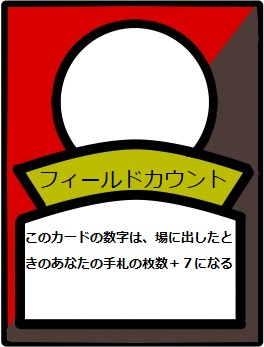
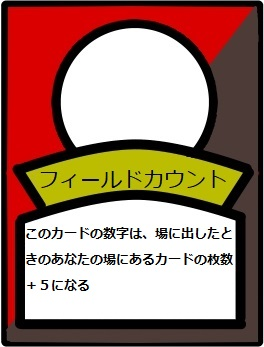
バグ修正

Changed region(s): [[0.0909, 0.634, 0.8788, 0.7781], [0.0909, 0.8069, 0.3333, 0.8357]]

diff --git a/Assets/Scripts/GameMain/GameManager.cs b/Assets/Scripts/GameMain/GameManager.cs
@@ -230,6 +230,7 @@ public class GameManager : MonoBehaviour {
             buff.text = "±" + Players[turnPlayer].SpecialPoint;
         }
         playerInfo.transform.Find("Point").GetComponent<Text>().text = Players[turnPlayer].NormalPoint + "";
+        playerInfo.transform.Find("Field").GetComponent<Text>().text = "場 "+Players[turnPlayer].FieldList.Count + "枚";
         GameObject gameInfo = GameObject.Find("GameInfo");
         Text gametext = gameInfo.transform.Find("Text").GetComponent<Text>();
         gametext.text = (turn + 1) + "ターン目 " + (turnPlayer+1) + "Pの番";
@@ -337,8 +338,10 @@ public class GameManager : MonoBehaviour {
                 Players[turnPlayer].FieldList[Players[turnPlayer].FieldList.Count - 1].GetComponent<Card>().Num += Players[turnPlayer].DeckList.Count; break;
             case 7:
                 Players[turnPlayer].FieldList[Players[turnPlayer].FieldList.Count - 1].GetComponent<Card>().Num += Players[turnPlayer].TrashList.Count; break;
-            case 8: Players[turnPlayer].FieldList[Players[turnPlayer].FieldList.Count - 1].GetComponent<Card>().Num += Players[turnPlayer].HandsList.Count; break;
-            case 9: Players[turnPlayer].FieldList[Players[turnPlayer].FieldList.Count - 1].GetComponent<Card>().Num += Players[turnPlayer].FieldList.Count; break;
+            case 9:
+                Players[turnPlayer].FieldList[Players[turnPlayer].FieldList.Count - 1].GetComponent<Card>().Num += Players[turnPlayer].HandsList.Count; break;
+            case 10:
+                Players[turnPlayer].FieldList[Players[turnPlayer].FieldList.Count - 1].GetComponent<Card>().Num += Players[turnPlayer].FieldList.Count; break;
         }
         Players[turnPlayer].NormalPoint += Players[turnPlayer].FieldList[Players[turnPlayer].FieldList.Count - 1].GetComponent<Card>().Num;
 

diff --git a/Assets/Scripts/GameMain/Player.cs b/Assets/Scripts/GameMain/Player.cs
@@ -67,12 +67,12 @@ public class Player:MonoBehaviour
             num.text = cloneObject.GetComponent<Card>().Num.ToString();
             if (cloneObject.GetComponent<Card>().Num >= 10)
             {
-                num.rectTransform.sizeDelta = new Vector2(144.5f, 144.8f);
+                num.rectTransform.sizeDelta = new Vector2(148.5f, 145.8f);
                 num.rectTransform.anchoredPosition = new Vector2(0f, 86.7f);
             }
             else
             {
-                num.rectTransform.sizeDelta = new Vector2(73.3f, 144.8f);
+                num.rectTransform.sizeDelta = new Vector2(75.3f, 145.8f);
                 num.rectTransform.anchoredPosition = new Vector2(0f, 86.7f);
             }
             cloneObject.GetComponent<RectTransform>().localScale = new Vector3(1f, 1f, 1f);
